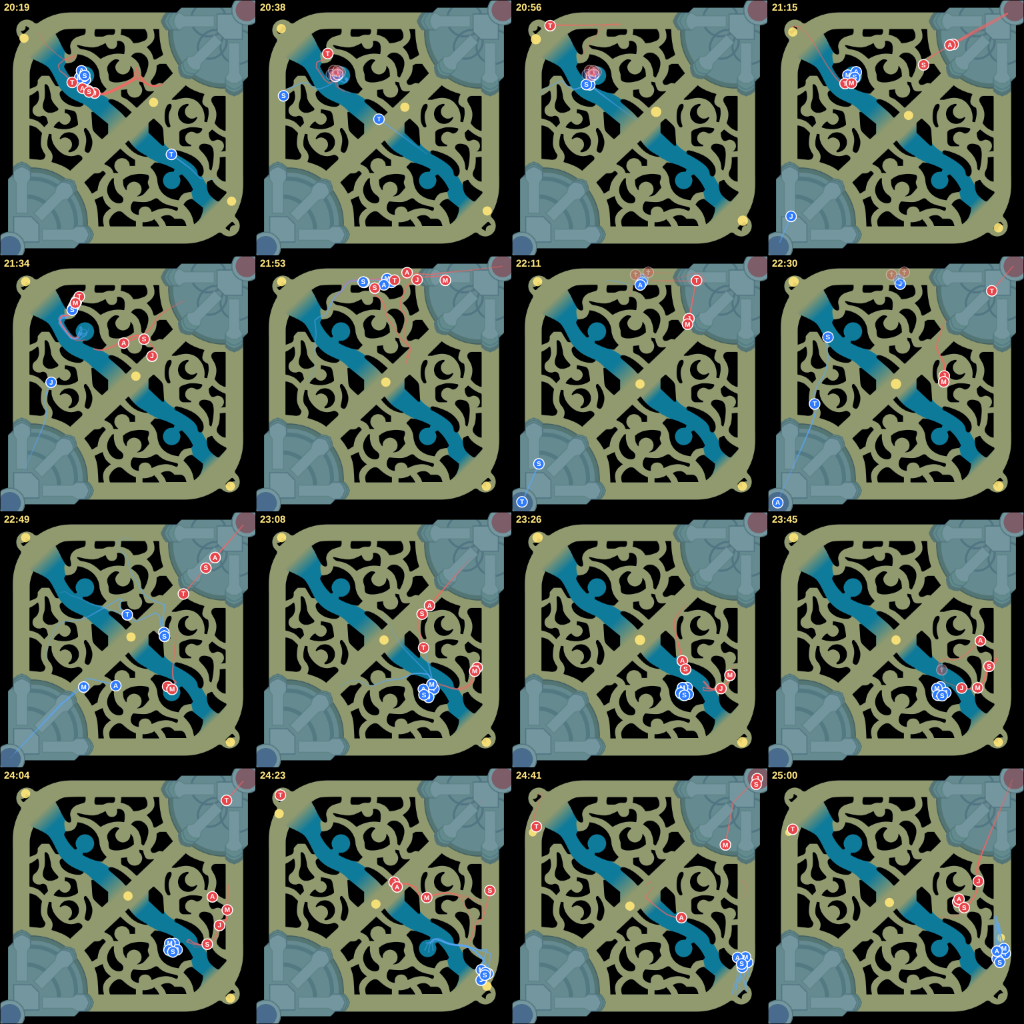
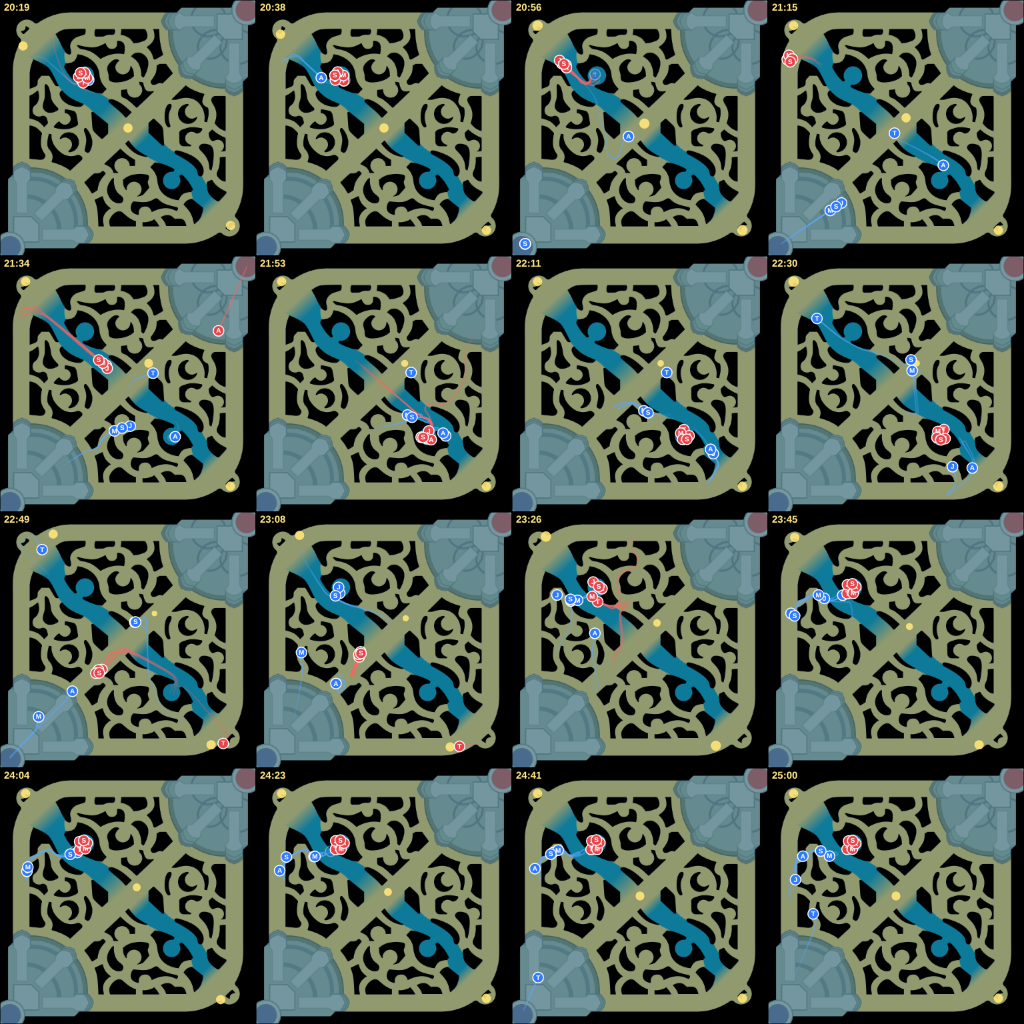
이동 시스템 마무리: 실제 길 길이에 맞춘 이동 속도, 공성 대형을 구조물 사거리 안으로, 결과 수치 재조정
- 이동 속도 0.0275 → 0.030 (실제 경로가 직선보다 평균 1.1배)
- 공성·넥서스 대형 자리를 구조물 사거리 85% 안으로 (사거리 안 공성 인원 39% → 58%)
- validate-match 500: 위반 0, 결과 통과 (33.0분, 킬 27.9, 첫 바론 팀 승률 77.8%)
- sim-season 5 --chain: 목표 점검 12개 통과 (33.9분)
- 같은 시드(8)로 전후 시트 다시 만들고 docs/MOVEMENT.md 갱신

Claude-Session: https://claude.ai/code/session_01W3nnTReftngapN1jocvVp4

diff --git a/js/config.js b/js/config.js
@@ -47,7 +47,7 @@ export const CONFIG = {
     },
     // ---- 시뮬레이션 (계획 → 이동 → 도착 → 판정) ----
     sim: {
-      moveSpeed: 0.0275,       // 초당 이동 거리 (맵 대각선 1.30 ≈ 47초)
+      moveSpeed: 0.030,        // 초당 이동 거리 (맵 대각선 1.30 ≈ 43초). 실제 길은 직선보다 평균 1.1배 길어 직선 시절 0.0275에서 올림
       maxSpeedMult: 1.15,      // 신발·기동성 보정 최대치 (검사기 기준)
       recallChannel: 8,        // 귀환 채널링(초) → 우물
       tpChannel: 4,            // 텔레포트 채널링(초) → 아군 포탑·와드·미니언
@@ -73,7 +73,7 @@ export const CONFIG = {
         gankDirect: 0.05,        // 이 거리 안이면 대상에게 바로
         scatter: 0.05,           // 도망칠 때 흩어지는 폭
         fight: { front: 0.008, mid: 0.018, diveIn: 0.004, flank: 0.02, back: 0.032, kite: 0.006, spread: 0.03 },
-        formation: { joinR: 0.12, front: 0.034, back: 0.03, side: 0.03, moveR: 0.03, arrived: 0.62, faceR: 0.15 },   // 이동 중 대형 간격 / 도착 후 배율
+        formation: { joinR: 0.12, front: 0.034, back: 0.03, side: 0.03, moveR: 0.03, arrived: 0.62, faceR: 0.15, siegeIn: 0.85 },   // 이동 중 대형 간격 / 도착 후 배율
       },
       campRespawn: 135,
       regenPerSec: 0.004,      // 비전투 체력 회복
@@ -101,7 +101,7 @@ export const CONFIG = {
       catchPerChaser: 0.05,    // 추격자 1명 늘 때마다 잡힐 확률 배율 +
       catchBase: 0.17,         // 도주자가 잡힐 기본 확률
       trade: { chance: 0.07, intensity: 0.45, fleeHp: 0.45 }, // 라인전 견제
-      engage: { objective: 0.11, objTaking: { baron: 0.15, elder: 0.85 }, objTakingMin: { elder: 4 }, structure: 0.05, numbers: 0.07, gank: 0.25, roam: 0.02, late: 0.02 },
+      engage: { objective: 0.11, objTaking: { baron: 0.08, elder: 0.7 }, objTakingMin: { elder: 4 }, structure: 0.05, numbers: 0.07, gank: 0.25, roam: 0.02, late: 0.02 },
       avoidRatio: 0.8, retreatSlack: 0.02, retreatBehind: 0.02, siegeChainRadius: 0.2, siegeChainRatio: 0.9,         // 전력비가 이 아래면 교전을 피해 물러남
       // 킬 배분: 마무리 일격 = 그 대상에게 준 피해(기여) × 포지션 가중치 × 챔피언 성향
       // 오브젝트 준비 중 강가 장악: 둥지 근처(radius) 전력비로 control(둥지 앞 강가 전진)·push(상대 대기 지점까지 밀기)·hold·yield(더 뒤로)
@@ -135,20 +135,20 @@ export const CONFIG = {
       // 구조물
       towerRange: 0.05,
       towerDps: 0.035,         // 미니언 없이 포탑 아래 들어간 챔피언이 초당 잃는 체력
-      champStructDps: 0.0093,  // 챔피언 1명 초당 구조물 피해 (구조물 체력 1)
+      champStructDps: 0.0085,  // 챔피언 1명 초당 구조물 피해 (구조물 체력 1)
       lateStructFrom: 1800, lateStructPerMin: 0.14,   // 30분 이후 1분마다 챔피언 구조물 피해 +14%
       veryLateFrom: 2700, veryLatePerMin: 0.25,       // 45분 이후 1분마다 +25% 추가 (끝없는 장기전 방지)
       minionStructDps: 0.0018, // 미니언 웨이브 초당 구조물 피해
       superMinionMult: 3,
       structHp: { tower: [1, 1.25, 1.35], inhib: 1.0, nexusTower: 1.1, nexus: 1.4 },
       fortifyUntil: 300,       // 이 시간 전에는 포탑 피해 -70%
-      plateUntil: 840,         // 이 시간 전에는 외곽 포탑 피해 -35% (포탑 방패)
+      plateUntil: 720,         // 이 시간 전에는 외곽 포탑 피해 -35% (포탑 방패)
       grubsStructBonus: 0.06,  // 유충 1마리당 구조물 피해 +6%
       baronStructBonus: 0.04,  // 바론 버프 중 챔피언의 구조물 피해 +4%
       baronMinionMult: 1.1,    // 바론 버프 선수 근처 미니언의 구조물 피해 배율
       baronFarmMult: 1.08, baronDenyMult: 1.0,    // 바론 버프 중 강화 미니언: 버프 팀 파밍 +8%, 상대 파밍 그대로
       recallChannelBaron: 4,   // 바론 버프 중 귀환 채널링(초)
-      closeLead: 3500,         // 기지가 열렸을 때 이만큼 앞서면 인원이 같아도 넥서스를 치러 간다
+      closeLead: 2500,         // 기지가 열렸을 때 이만큼 앞서면 인원이 같아도 넥서스를 치러 간다
       reopenAt: 2400,          // 40분 이후: 앞선 팀은 되살아난 억제기도 다시 민다
       nexusMinAttackers: 3,    // 넥서스 공격 최소 인원 (상대 기지 안)
       // 웨이브
@@ -162,7 +162,7 @@ export const CONFIG = {
       baronFewMult: 1.2,       // 4명 미만 바론 처치 시간 배율
       setupLead: 60,           // 오브젝트 등장 이 시간 전부터 시야 장악
       objDrain: { baron: 0.015 }, objDrainFloor: 0.4,   // 오브젝트 치는 동안 초당 체력 감소 (하한)
-      stealBase: 0.2,  stealPerMech: 0.004,
+      stealBase: 0.3,  stealPerMech: 0.004,
       heraldSpeed: 0.022, heraldStructDmg: 0.65, heraldHp: 1, heraldHoldSec: 240,
       // 장면·검사
       sceneRadius: 0.09,       // 장면 참여자 범위

diff --git a/js/engine/behavior.js b/js/engine/behavior.js
@@ -14,6 +14,7 @@ import { CHAMPIONS } from '../../data/champions.js';
 import { FRONT } from './matchcore.js';
 
 const M = () => CONFIG.match.sim.move;
+const SIM = () => CONFIG.match.sim;
 const RANGED = new Set(['adc', 'adcCrit', 'adcLethal', 'adcOnhit', 'mage', 'mageBurst', 'mageControl', 'mageBattle', 'enchanter', 'enchant', 'ezreal', 'smolder', 'gpCrit']);
 const DIVE = new Set(['apAssassin', 'lethality', 'skirm']);
 const clsOf = p => (CHAMPIONS[p.champ] ? CHAMPIONS[p.champ].cls : 'bruiser');
@@ -227,6 +228,12 @@ function formationGoal(g, p, t) {
   // 이동 중엔 대형을 넓게(보이게), 도착하면(공성·대기) 좁게 모인다
   f *= scNow; r *= scNow;
   const slot = clipToward(nav.snap(tc[0], tc[1], 1), [tc[0] + dx * f - dy * r, tc[1] + dy * f + dx * r]);
+  // 공성·넥서스: 대형이 넓어도 구조물 사거리 안(towerRange × siegeIn)에는 서 있는다 (뒷줄이 사거리 밖으로 밀려나 공성이 느려지지 않게)
+  const st = p.task.struct && p.task.struct.pos;
+  if (st) {
+    const R = SIM().towerRange * M().formation.siegeIn, d = Math.hypot(slot[0] - st[0], slot[1] - st[1]);
+    if (d > R) { const c = clipToward(nav.snap(st[0], st[1], 1), [st[0] + (slot[0] - st[0]) * R / d, st[1] + (slot[1] - st[1]) * R / d]); slot[0] = c[0]; slot[1] = c[1]; }
+  }
   const mv = mvOf(p);
   if (t >= mv.jitAt) { const a = (t * 1.3 + seedOf(p) * 6.28) % 6.28; mv.jit = [Math.cos(a) * M().wanderR, Math.sin(a) * M().wanderR]; mv.jitAt = t + 2.5; }
   const near = Math.hypot(slot[0] - p.x, slot[1] - p.y) < M().formation.moveR;

diff --git a/sw.js b/sw.js
@@ -3,7 +3,7 @@
 // 알림의 새로고침을 누르면 SKIP_WAITING → 새 버전으로 바뀐 뒤 페이지를 다시 불러온다.
 
 // BUILD:BEGIN (node tools/build-pages.mjs 가 채움)
-const VERSION = '6ad540f4358a';
+const VERSION = '4aeda4a99345';
 const FILES = [
   "./",
   "assets/teams/BFX.png",

diff --git a/docs/MOVEMENT.md b/docs/MOVEMENT.md
@@ -90,11 +90,11 @@
 | 14 | 방향 반복 전환 | 교전·도주 밖에서 5초 안에 150° 넘게 3번 이상 뒤집으면 위반 | **0건** |
 | — | 라이너 ↔ 자기 웨이브 거리 | 라인전(1:30~14:00) 평균 0.01~0.06 | **0.042** (10%/90% 0.029/0.060) |
 
-- 1초 이동 검사 982만 회(500판).
+- 1초 이동 검사 940만 회(500판).
 - 기존 검사(위치·사망·오브젝트·구조물·한타 표기·운영·장면·문자중계)도 모두 0건이다.
 
 ### 연속 컷 시트 (`tools/render-minimap.mjs`)
-- 같은 시드(7)로 경기를 돌려 0~3분·8~12분·20~25분을 16컷씩 4×4 시트로 묶었다.
+- 같은 시드(8)로 이전 엔진과 새 엔진을 각각 돌려 0~3분·8~12분·20~25분을 16컷씩 4×4 시트로 묶었다.
 - 점은 웨이브, 빨간 원은 교전, 선은 최근 20초 궤적이다. 궤적은 귀환·순간이동에서 끊었다.
 
 | 구간 | 바꾸기 전 | 바꾼 후 |
@@ -124,11 +124,12 @@
      - 봇 라인 모퉁이 바위 양쪽으로 길이 갈렸다.
    - 이 원인들을 하나씩 고쳐 0건이 됐다.
 5. **무리 이동 때 대형이 보인다 — 충족.**
-   - 20~25분 시트에서 5명이 한 점에 겹치지 않고 앞·뒤·옆으로 벌어져 이동한다(21:34, 22:30, 23:08).
+   - 20~25분 시트에서 블루 5명이 한 점에 겹치지 않고 앞·뒤·옆으로 벌어져 이동한다(21:15, 21:34, 23:26).
+   - 바꾸기 전 시트는 같은 장면에서 4~5명이 한 점에 겹친 채 직선으로 미끄러진다(20:19, 21:15, 23:45).
    - 팀원 겹침(0.006 안) 비율: 이전 2.6% → 0.4%.
    - 무리 임무 중 팀원 사이 평균 간격은 0.082다.
 6. **교전에서 앞라인·뒷라인이 구분된다 — 충족(수치로 확인).**
-   - 교전 판정 순간 위치를 "우리 무리 중심 → 상대 무리 중심" 방향으로 재면 앞라인(탱커·이니시)은 +0.0075 앞, 원딜은 −0.0069 뒤다. 120판, 교전 참가 6,600명 기준이다.
+   - 교전 판정 순간 위치를 "우리 무리 중심 → 상대 무리 중심" 방향으로 재면 앞라인(탱커·이니시)은 +0.0063 앞, 원딜은 −0.0064 뒤다. 120판, 교전 참가 6,000명 기준이다.
    - 처음엔 둘 다 0이었다. 교전은 한 틱 안에서 생기고 끝나서, 교전 직전 대형이 곧 교전 모양이 된다.
    - 그래서 대형과 둥지 안 자리를 적 쪽 기준으로 돌렸다. 앞라인이 적 쪽, 원거리가 반대쪽에 선다.
    - 미니맵 한 컷에서는 간격이 작아(약 5px) 눈으로는 약하게 보인다.
@@ -146,25 +147,35 @@
 
 ## 결과 계산 쪽 영향과 다시 맞춘 값
 - 교전·오브젝트·골드 공식은 바꾸지 않았다. 다만 선수가 실제 길로 다니니 도착 시각과 모이는 모양이 바뀌었고, 결과 분포가 움직여 수치를 다시 맞췄다.
+- **이동 속도 0.0275 → 0.030**: 실제 길은 직선보다 평균 1.10배(중앙값 1.08, 90% 1.23) 길다. 직선 시절 값 그대로면 합류·수비가 늦어져 경기가 길어졌다.
+- **공성 대형**: 공성·넥서스 임무 중 대형 자리를 구조물 사거리(0.05)의 85% 안으로 당긴다.
+  - 넓은 대형 때문에 뒷줄이 사거리 밖으로 밀려, 사거리 안 공성 인원이 이전 45.3%에서 39.1%로 줄었다. 비슷한 팀끼리는 경기가 늘어졌다(시즌 시뮬 34.9분).
+  - 고친 뒤 58.1%다.
 - 바꾼 판정 하나: 장로를 치는 팀에게 견제 팀이 들어가는 교전은 견제 팀이 4명(살아 있는 인원이 적으면 전원) 둥지 근처에 모였을 때만 생긴다(`engage.objTakingMin`).
   - 먼저 온 2~3명이 1:5로 잘리는 소규모 교전이 장로 한타를 대신하던 문제를 고쳤다.
 - 다시 맞춘 값
   - 드래곤 정면 성향 2.6 → 3.8, 바론 1.0 → 1.4.
   - 큰 교전 양쪽 동시 후퇴 0.38 → 0.18.
   - 기본 피해 0.045 → 0.046, 개인 도주 체력 0.28 → 0.25, 도주자 잡힐 확률 0.2 → 0.17.
-  - 챔피언 구조물 피해 0.0075 → 0.0093.
+  - 챔피언 구조물 피해 0.0075 → 0.0085, 외곽 포탑 방패 14분 → 12분.
   - 바론 공성 +15% → +4%, 바론 미니언 ×1.4 → ×1.1, 바론 강화 미니언 파밍 ×1.12 → ×1.08, 상대 파밍 ×0.9 → ×1.0.
-  - 끝내러 가는 골드 차 2,500 → 3,500.
+  - 바론 처치 중 견제 교전 0.15 → 0.08, 장로 0.85 → 0.7, 바론 스틸 기본 0.2 → 0.3.
   - 킬 가중치: 원딜 0.72 → 0.68, 정글 0.69 → 0.65.
   - 아군 교전 합류 거리 0.30 → 0.33.
 - `node tools/validate-match.mjs 500`: 위반 0건, 결과 통과 ✓
-  - 평균 34.7분, 킬 30.7.
-  - 한타 분포 5.8/51.2/21.0/22.1%.
-  - 드래곤 한타 40.1%, 바론 51.2%, 장로 76.3%.
-  - 첫 바론 팀 승률 79.3%. 바론 골드 격차 증가 평균 2,259, 상위 10% 4,314.
+  - 평균 33.0분, 킬 27.9.
+  - 한타 분포 5.7/52.4/21.3/20.6%.
+  - 킬 비율: 원딜 30.8, 미드 25.9, 정글 21.9, 탑 16.0, 서폿 5.3%.
+  - 드래곤 한타 39.3%, 바론 44.5%, 장로 79.2%.
+  - 첫 바론 팀 승률 77.8%. 바론 골드 격차 증가 평균 2,310, 상위 10% 4,325.
+- `node tools/sim-season.mjs 5 --chain`: 목표 점검 12개 모두 ✓
+  - 평균 33.9분, 킬 29.5.
+  - LCK 1군 90+ 6/7/5/6/8명.
+- `node tools/sim-choices.mjs`: 범위 초과 0, 우월 선택지 0.
 
 ## 남은 점
-- 첫 바론 팀 승률(79.3%)과 5~7킬 한타 비율(21.0%)은 목표 범위 경계 가까이에 있다.
+- 5~7킬 한타 비율(21.3%)과 정글 킬 비율(21.9%)은 목표 범위 경계 가까이에 있다.
+  - 첫 바론 팀 승률은 200판 표본에서 ±3%p쯤 흔들린다(같은 200판에서 이전 엔진 80.5%, 새 엔진 76.4%).
   - 이동 쪽을 크게 바꾸면 다시 벗어날 수 있으니 `validate-match 500`으로 꼭 확인한다.
 - 교전이 한 틱(5초) 안에서 판정되므로 교전 중 카이팅·다이브 동작은 짧게만 보인다.
   - 앞·뒤 구분은 주로 교전 직전 대형으로 드러난다.
